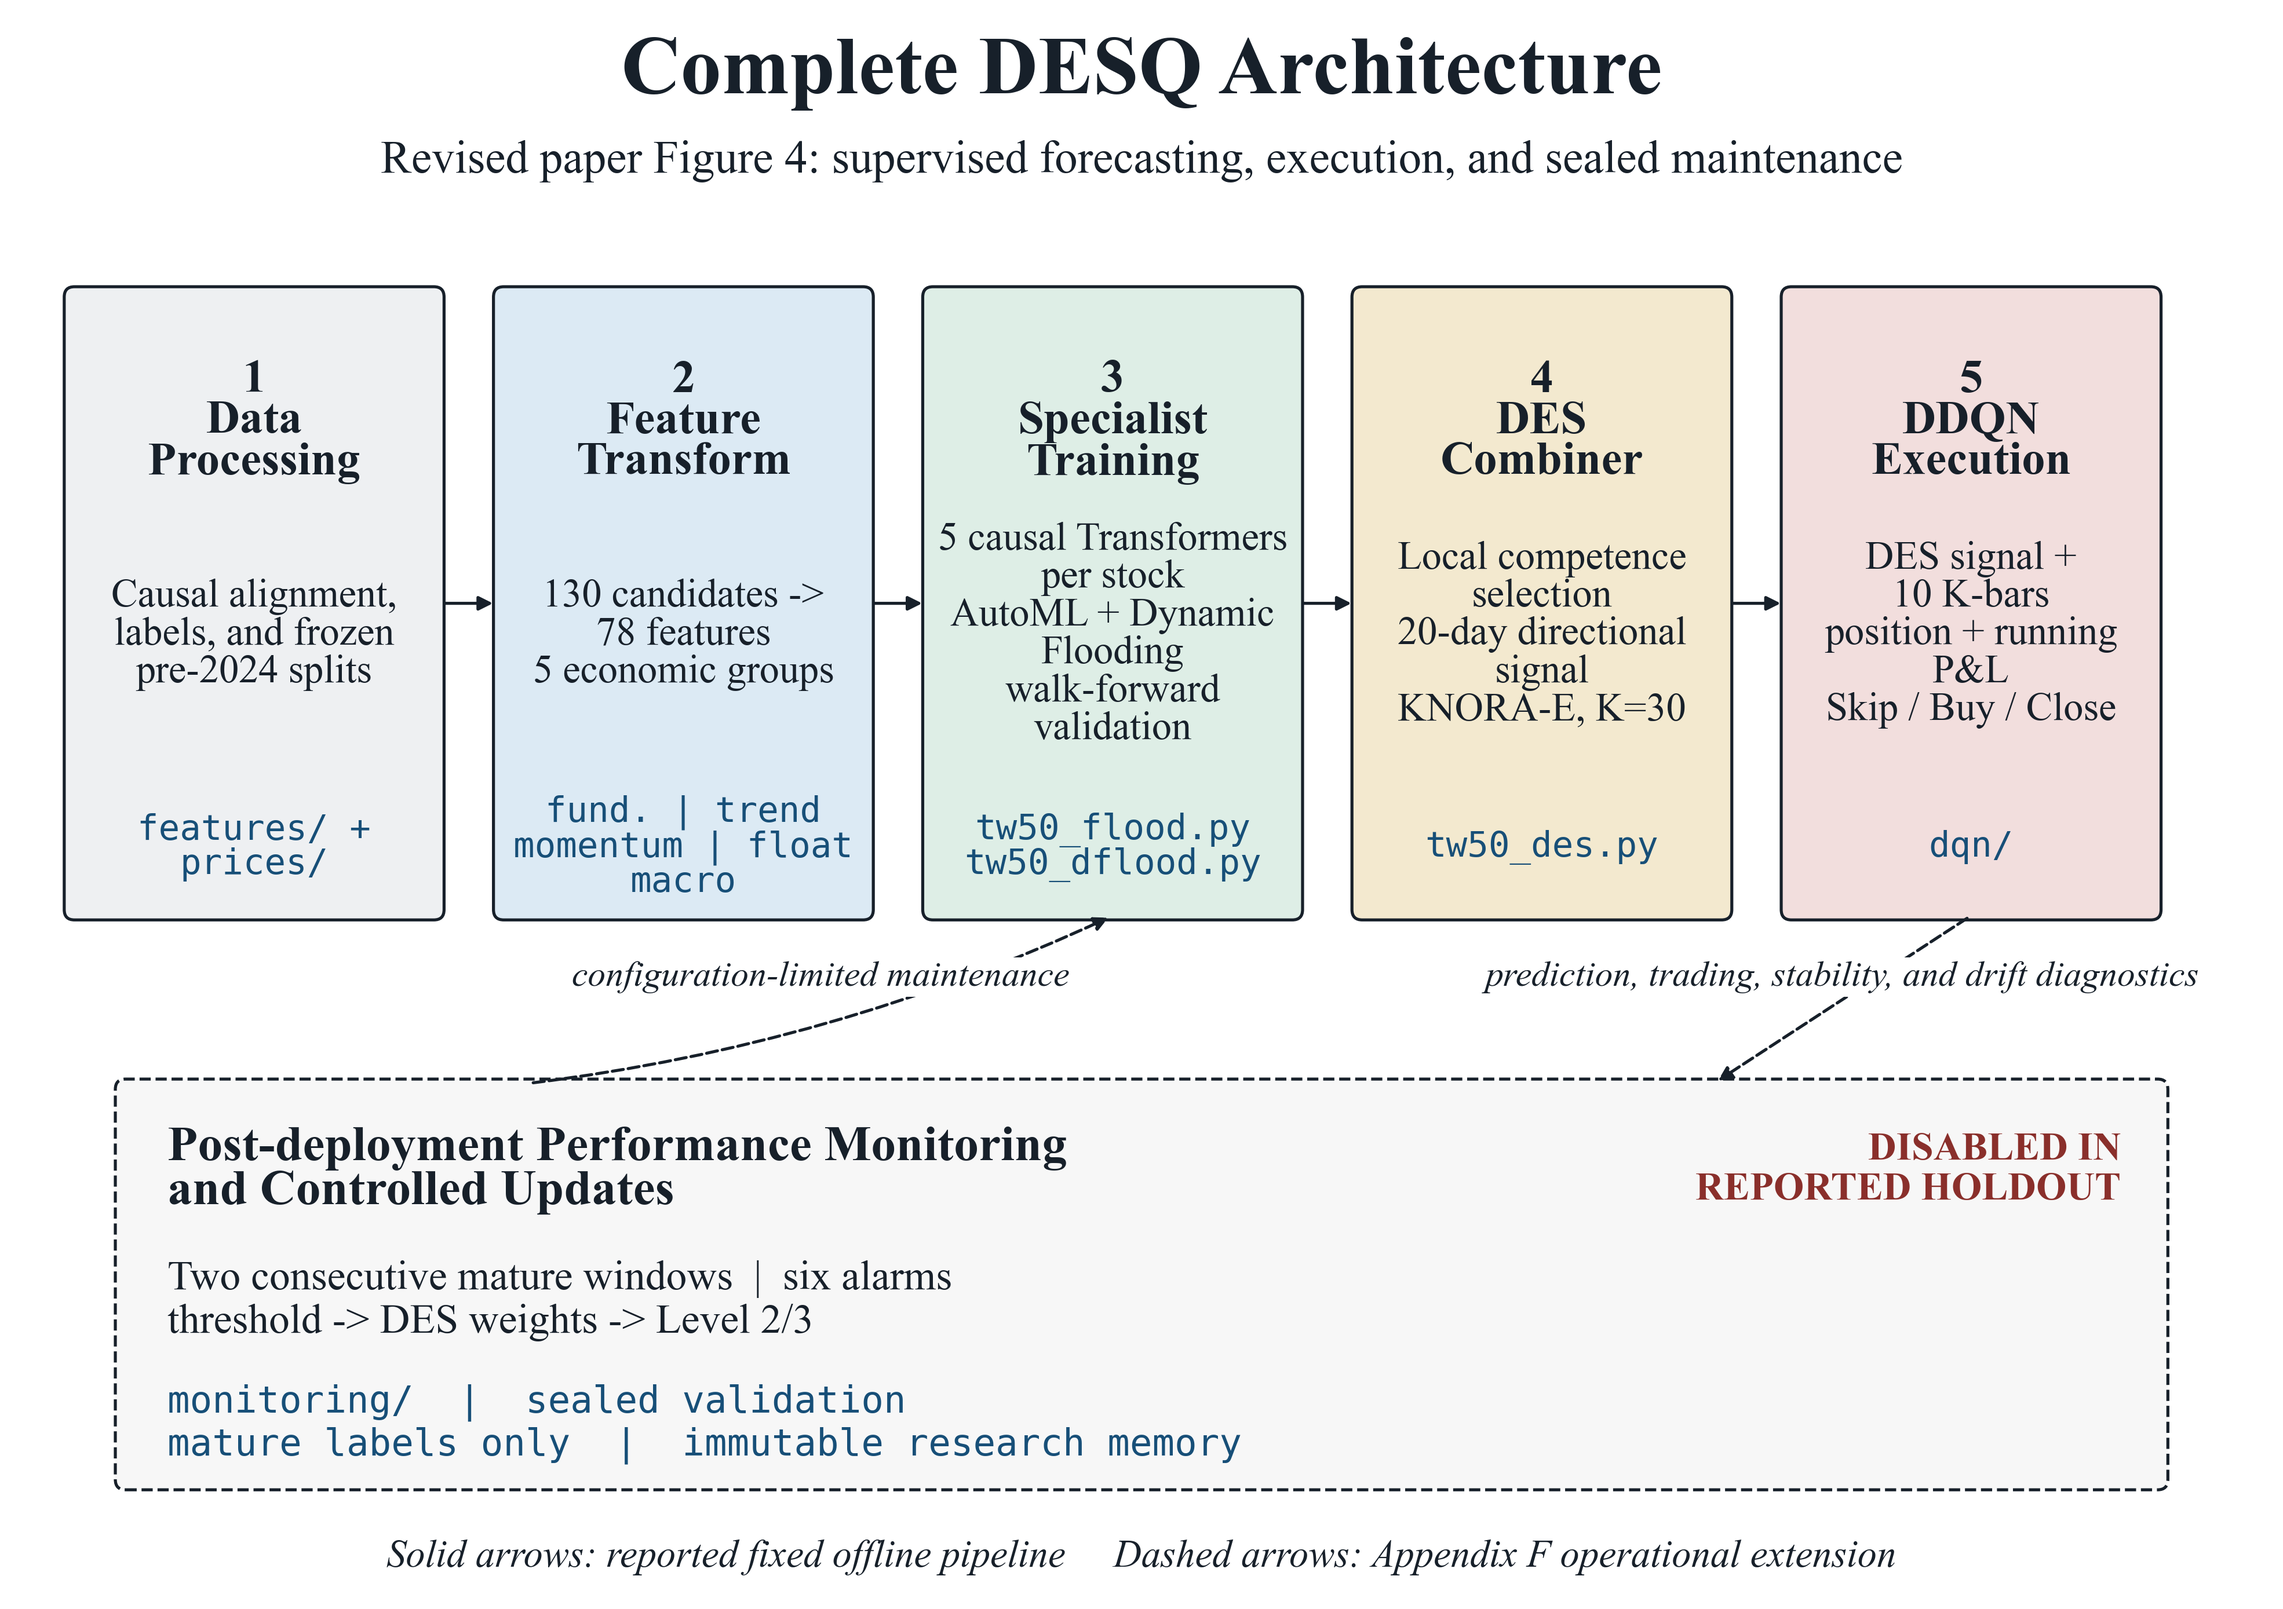
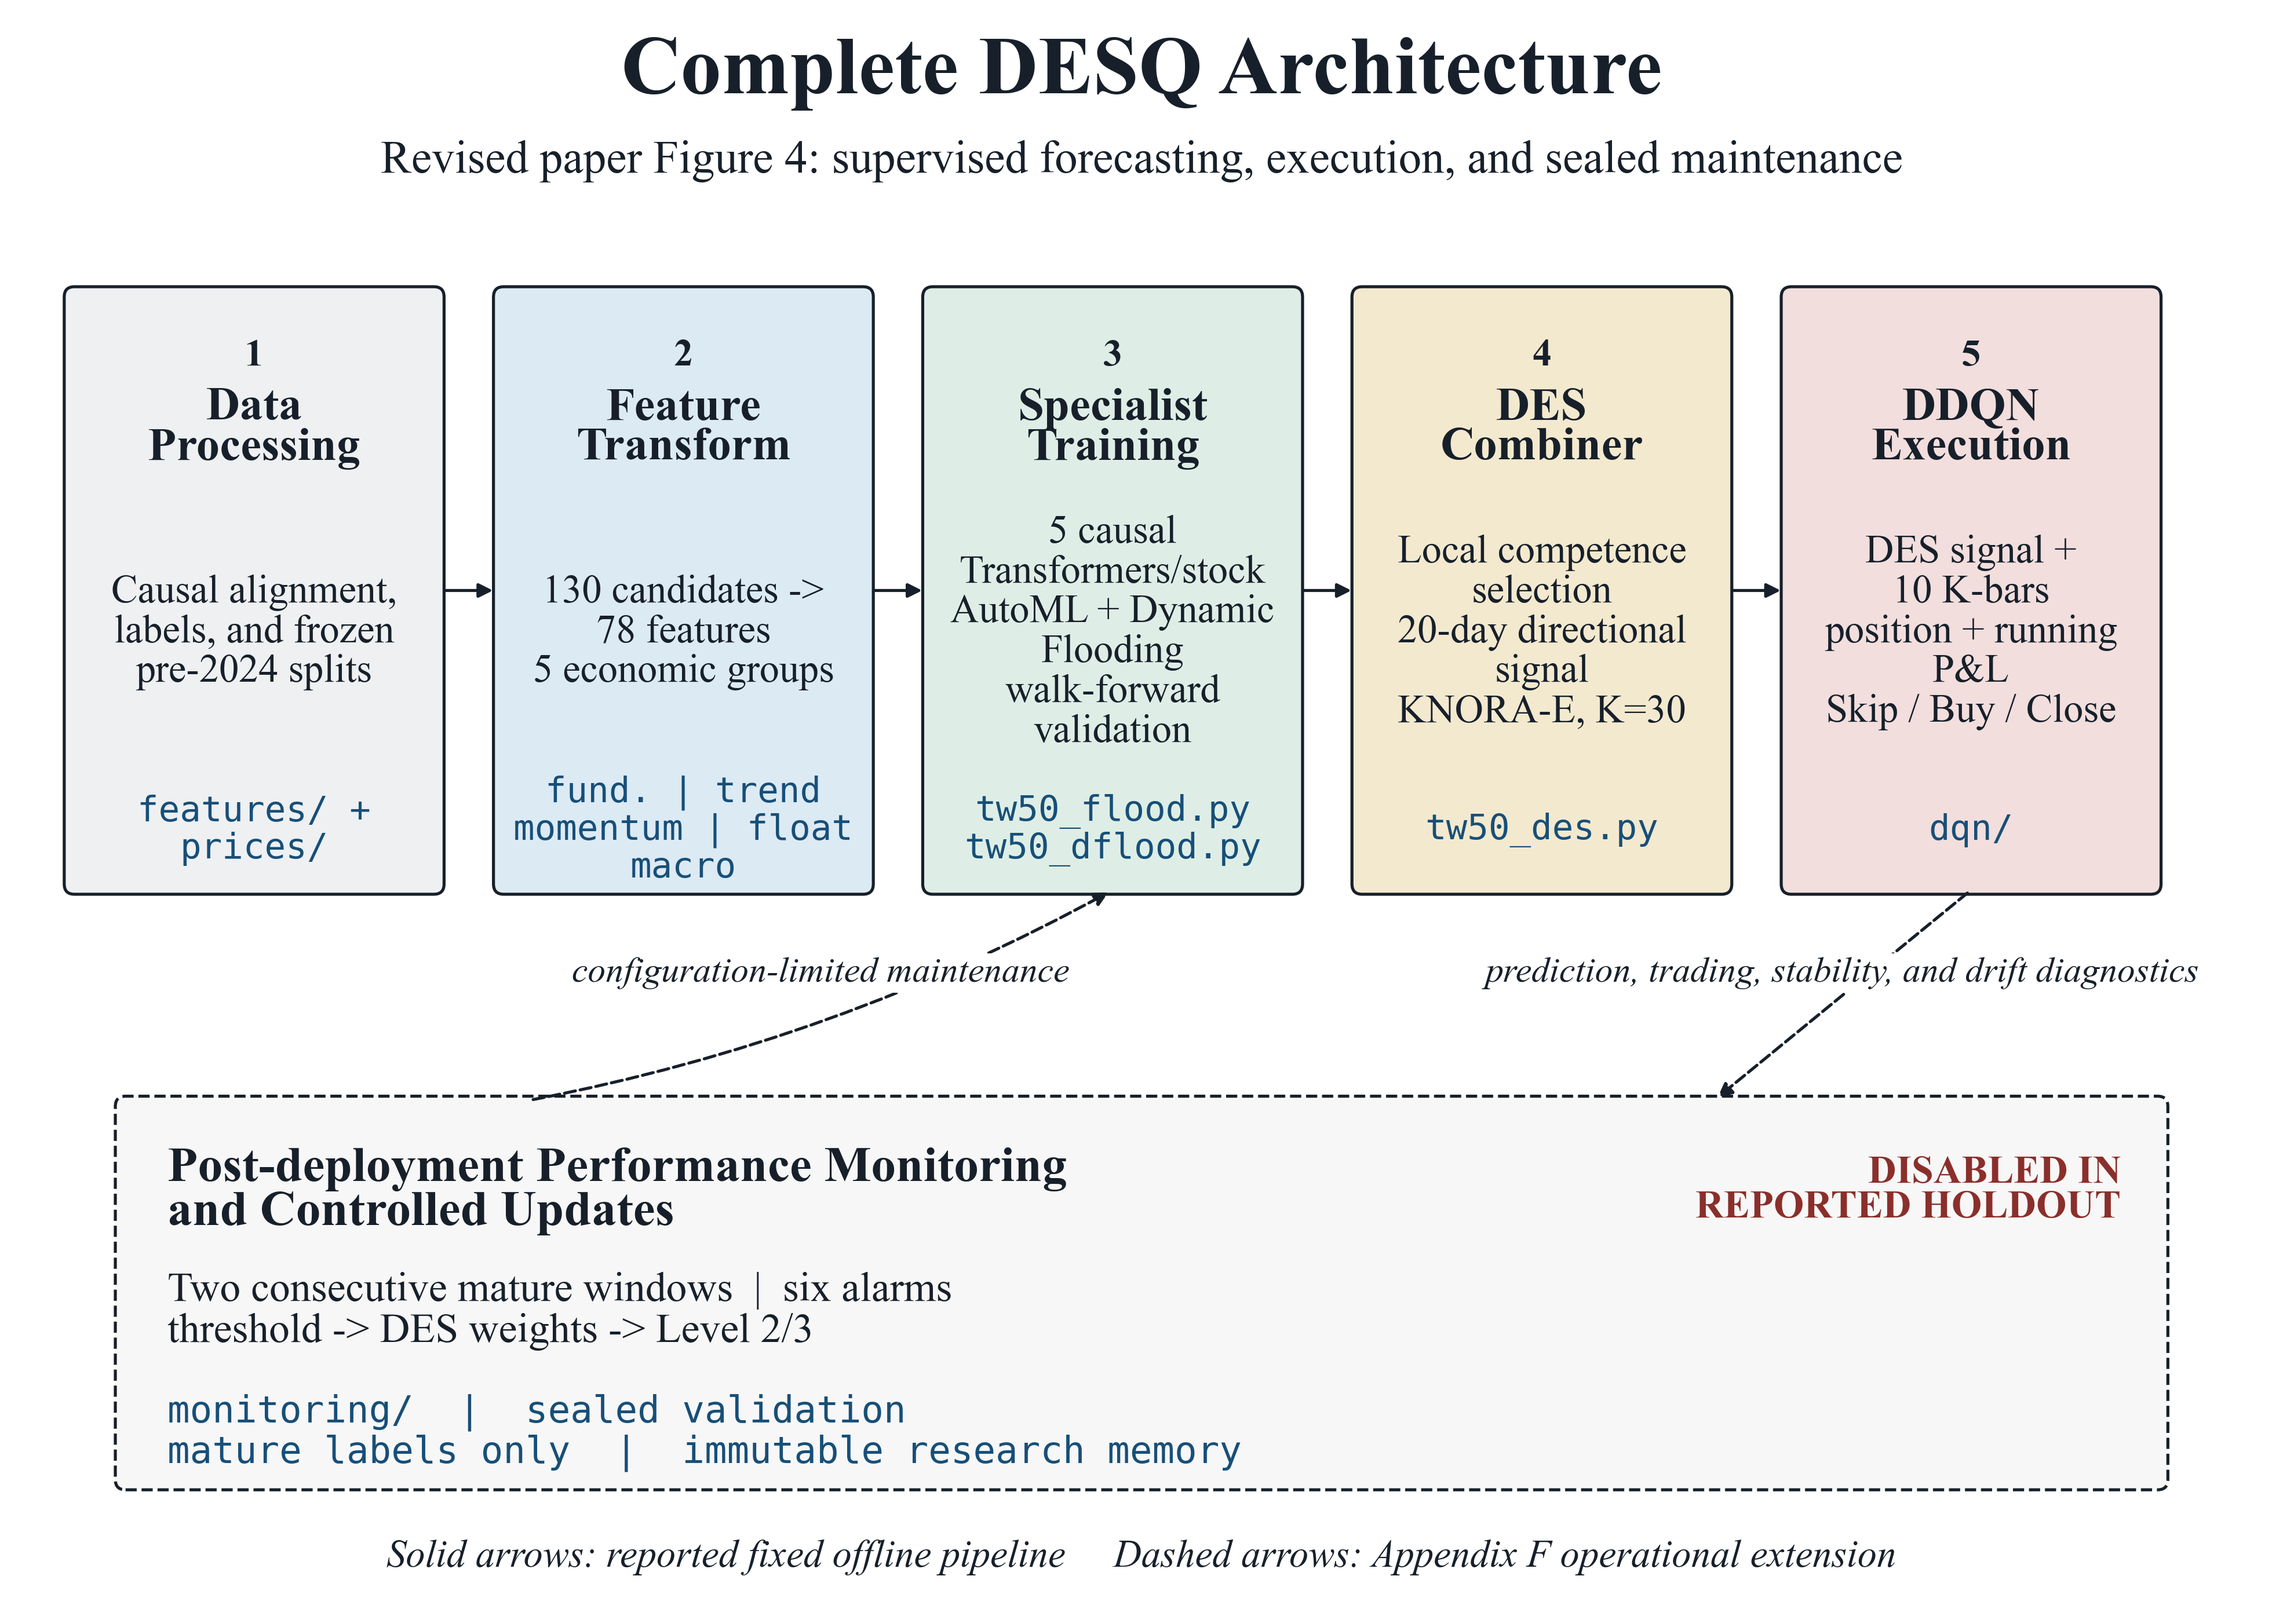
Polish pipeline diagram typography

diff --git a/docs/_render_training_pipeline.py b/docs/_render_training_pipeline.py
@@ -21,21 +21,23 @@ CODE = "#174f78"
 FONT_SCALE = 2.0
 
 
-def _box(ax, x: float, y: float, width: float, height: float, title: str,
-         body: str, code: str, face: str) -> None:
+def _box(ax, x: float, y: float, width: float, height: float, number: str,
+         title: str, body: str, code: str, face: str) -> None:
     ax.add_patch(FancyBboxPatch(
         (x, y), width, height,
         boxstyle="round,pad=0.025,rounding_size=0.06",
         linewidth=1.25, edgecolor=INK, facecolor=face,
     ))
-    ax.text(x + width / 2, y + height * 0.79, title, ha="center", va="center",
+    ax.text(x + width / 2, y + height * 0.89, number, ha="center", va="center",
+            fontsize=8.0 * FONT_SCALE, fontweight="bold", color=INK)
+    ax.text(x + width / 2, y + height * 0.77, title, ha="center", va="center",
             fontsize=9.7 * FONT_SCALE, fontweight="bold", color=INK,
-            linespacing=1.0)
-    ax.text(x + width / 2, y + height * 0.45, body, ha="center", va="center",
-            fontsize=8.2 * FONT_SCALE, color=INK, linespacing=1.05)
-    ax.text(x + width / 2, y + height * 0.11, code, ha="center", va="center",
+            linespacing=0.95)
+    ax.text(x + width / 2, y + height * 0.43, body, ha="center", va="center",
+            fontsize=8.2 * FONT_SCALE, color=INK, linespacing=1.12)
+    ax.text(x + width / 2, y + height * 0.10, code, ha="center", va="center",
             fontsize=7.3 * FONT_SCALE, color=CODE, family="monospace",
-            linespacing=1.0)
+            linespacing=1.10)
 
 
 def _arrow(ax, start: tuple[float, float], end: tuple[float, float], *,
@@ -66,18 +68,18 @@ def main() -> None:
             "Revised paper Figure 4: supervised forecasting, execution, and sealed maintenance",
             ha="center", va="center", fontsize=9.5 * FONT_SCALE, color=INK)
 
-    box_y, box_w, box_h, gap = 3.95, 2.18, 3.65, 0.34
+    box_y, box_w, box_h, gap = 4.10, 2.18, 3.50, 0.34
     starts = [0.30 + index * (box_w + gap) for index in range(5)]
     stages = [
-        ("1\nData\nProcessing", "Causal alignment,\nlabels, and frozen\npre-2024 splits",
+        ("1", "Data\nProcessing", "Causal alignment,\nlabels, and frozen\npre-2024 splits",
          "features/ +\nprices/", GRAY),
-        ("2\nFeature\nTransform", "130 candidates ->\n78 features\n5 economic groups",
+        ("2", "Feature\nTransform", "130 candidates ->\n78 features\n5 economic groups",
          "fund. | trend\nmomentum | float\nmacro", BLUE),
-        ("3\nSpecialist\nTraining", "5 causal Transformers\nper stock\nAutoML + Dynamic\nFlooding\nwalk-forward\nvalidation",
+        ("3", "Specialist\nTraining", "5 causal\nTransformers/stock\nAutoML + Dynamic\nFlooding\nwalk-forward\nvalidation",
          "tw50_flood.py\ntw50_dflood.py", GREEN),
-        ("4\nDES\nCombiner", "Local competence\nselection\n20-day directional\nsignal\nKNORA-E, K=30",
+        ("4", "DES\nCombiner", "Local competence\nselection\n20-day directional\nsignal\nKNORA-E, K=30",
          "tw50_des.py", GOLD),
-        ("5\nDDQN\nExecution", "DES signal +\n10 K-bars\nposition + running\nP&L\nSkip / Buy / Close",
+        ("5", "DDQN\nExecution", "DES signal +\n10 K-bars\nposition + running\nP&L\nSkip / Buy / Close",
          "dqn/", RED),
     ]
     for start, stage in zip(starts, stages):
@@ -86,28 +88,30 @@ def main() -> None:
         _arrow(ax, (left + box_w, box_y + box_h / 2),
                (right, box_y + box_h / 2))
 
-    monitor_x, monitor_y, monitor_w, monitor_h = 0.60, 0.62, 12.00, 2.35
+    monitor_x, monitor_y, monitor_w, monitor_h = 0.60, 0.62, 12.00, 2.25
     ax.add_patch(FancyBboxPatch(
         (monitor_x, monitor_y), monitor_w, monitor_h,
         boxstyle="round,pad=0.025,rounding_size=0.06",
         linewidth=1.25, edgecolor=INK, facecolor="#f7f7f7", linestyle="--",
     ))
-    ax.text(monitor_x + 0.28, monitor_y + 1.84,
+    ax.text(monitor_x + 0.28, monitor_y + 1.72,
             "Post-deployment Performance Monitoring\nand Controlled Updates",
             ha="left", va="center", fontsize=10.3 * FONT_SCALE,
             fontweight="bold", color=INK, linespacing=1.0)
-    ax.text(monitor_x + 0.28, monitor_y + 1.08,
+    ax.text(monitor_x + 0.28, monitor_y + 1.02,
             "Two consecutive mature windows  |  six alarms\n"
             "threshold -> DES weights -> Level 2/3",
-            ha="left", va="center", fontsize=8.6 * FONT_SCALE, color=INK)
-    ax.text(monitor_x + 0.28, monitor_y + 0.36,
+            ha="left", va="center", fontsize=8.6 * FONT_SCALE,
+            color=INK, linespacing=1.12)
+    ax.text(monitor_x + 0.28, monitor_y + 0.31,
             "monitoring/  |  sealed validation\n"
             "mature labels only  |  immutable research memory",
             ha="left", va="center", fontsize=7.7 * FONT_SCALE,
-            color=CODE, family="monospace")
-    ax.text(monitor_x + monitor_w - 0.25, monitor_y + 1.84,
+            color=CODE, family="monospace", linespacing=1.12)
+    ax.text(monitor_x + monitor_w - 0.25, monitor_y + 1.72,
             "DISABLED IN\nREPORTED HOLDOUT", ha="right", va="center",
-            fontsize=8.1 * FONT_SCALE, fontweight="bold", color="#8a2f2b")
+            fontsize=8.1 * FONT_SCALE, fontweight="bold", color="#8a2f2b",
+            linespacing=1.0)
 
     _arrow(ax, (starts[4] + box_w / 2, box_y),
            (monitor_x + monitor_w * 0.78, monitor_y + monitor_h),
